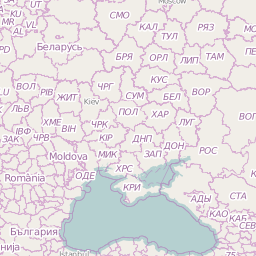
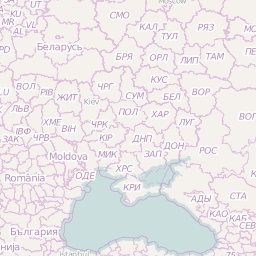
Added Watermark mosaic effect

diff --git a/CustomMap/RootViewController.m b/CustomMap/RootViewController.m
@@ -8,6 +8,7 @@
 
 #import "RootViewController.h"
 #import "GridTileOverlay.h"
+#import "WatermarkTileOverlayRenderer.h"
 #if ( OFFLINE_USE_CUSTOM_OVERLAY_RENDERER == 1)
 #import "GridTileOverlayRenderer.h"
 #endif
@@ -121,7 +122,11 @@ typedef NS_ENUM(NSInteger, CustomMapTileOverlayType) {
             renderer = [[MKTileOverlayRenderer alloc] initWithTileOverlay:tileOverlay];
 #endif
         } else {
-            renderer = [[MKTileOverlayRenderer alloc] initWithTileOverlay:tileOverlay];
+            if(self.overlayType==CustomMapTileOverlayTypeGoogle) {
+                renderer = [[WatermarkTileOverlayRenderer alloc] initWithTileOverlay:tileOverlay];
+            } else {
+                renderer = [[MKTileOverlayRenderer alloc] initWithTileOverlay:tileOverlay];                
+            }
         }
 
         return renderer;

diff --git a/CustomMap/WatermarkTileOverlayRenderer.m b/CustomMap/WatermarkTileOverlayRenderer.m
@@ -1,0 +1,26 @@
+//
+//  WatermarkTileOverlayRenderer.m
+//  CustomMap
+//
+//  Created by Carlo Vigiani on 22/Jan/14.
+//  Copyright (c) 2014 viggiosoft. All rights reserved.
+//
+
+#import "WatermarkTileOverlayRenderer.h"
+
+@implementation WatermarkTileOverlayRenderer
+
+-(void)drawMapRect:(MKMapRect)mapRect zoomScale:(MKZoomScale)zoomScale inContext:(CGContextRef)context {
+    
+    [super drawMapRect:mapRect zoomScale:zoomScale inContext:context];
+    
+    CGRect rect = [self rectForMapRect:mapRect];
+    CGContextSetFillColorWithColor(context, [UIColor colorWithRed:arc4random()%255/255. green:arc4random()%255/255. blue:arc4random()%255/255. alpha:0.2].CGColor);
+    CGContextFillRect(context, rect);
+    
+    
+    
+    
+}
+
+@end

diff --git a/CustomMap/WatermarkTileOverlayRenderer.h b/CustomMap/WatermarkTileOverlayRenderer.h
@@ -1,0 +1,13 @@
+//
+//  WatermarkTileOverlayRenderer.h
+//  CustomMap
+//
+//  Created by Carlo Vigiani on 22/Jan/14.
+//  Copyright (c) 2014 viggiosoft. All rights reserved.
+//
+
+#import <MapKit/MapKit.h>
+
+@interface WatermarkTileOverlayRenderer : MKTileOverlayRenderer
+
+@end
